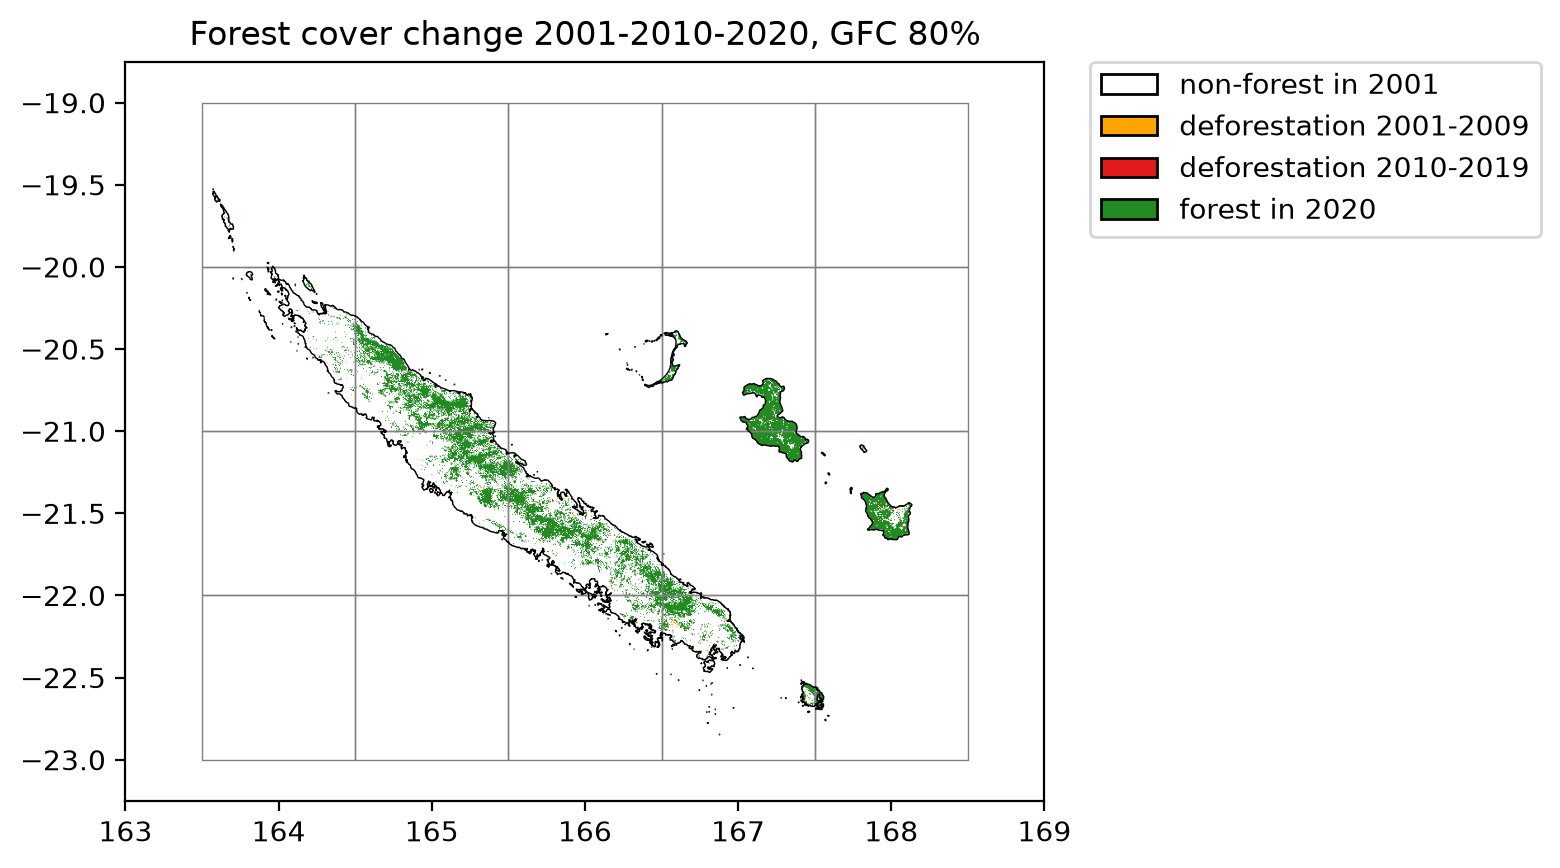
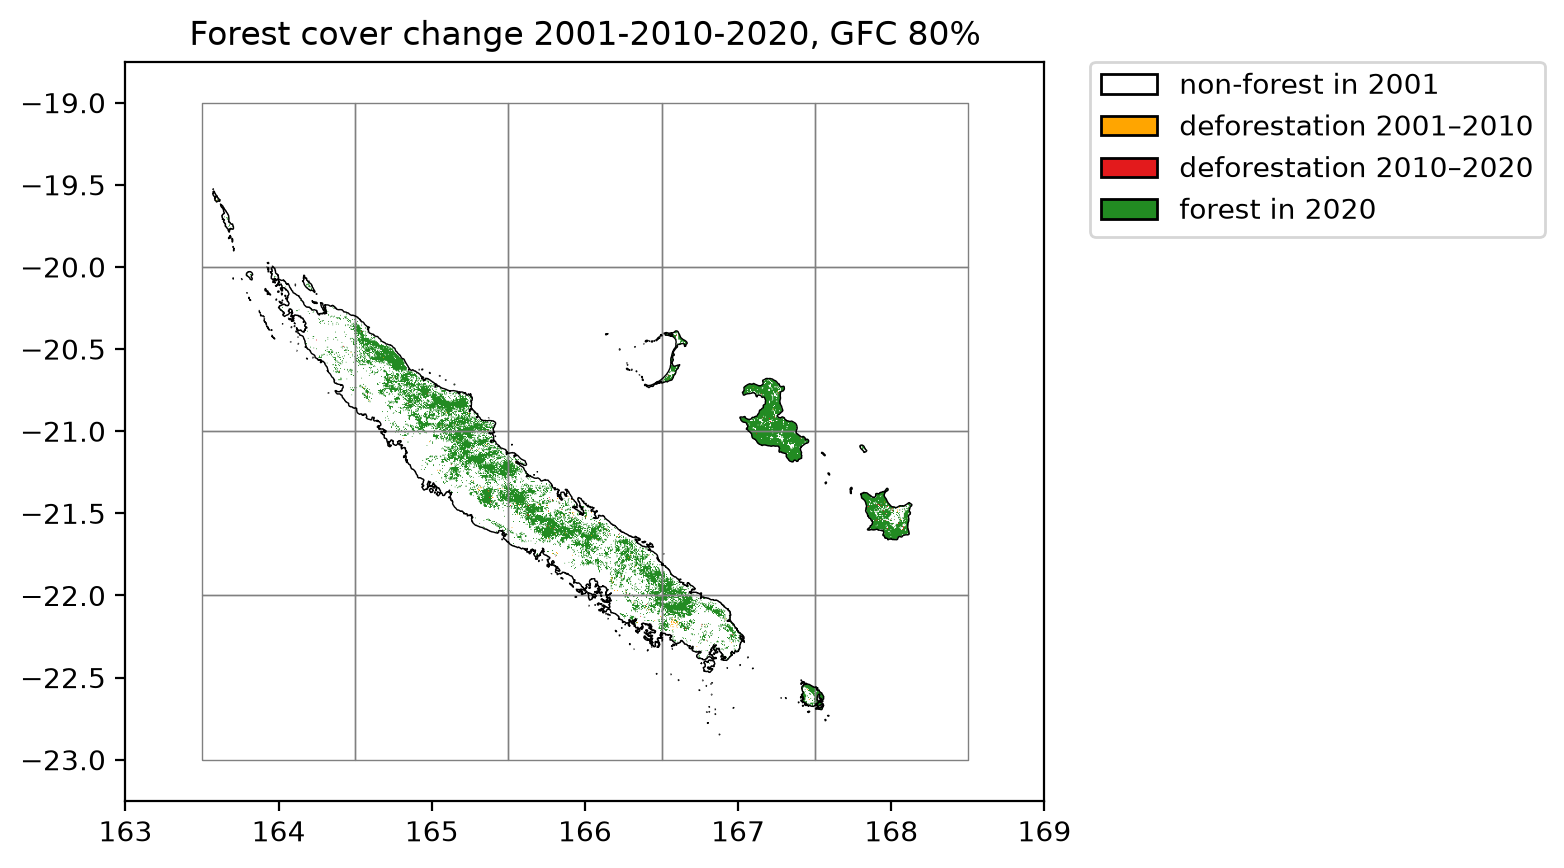
Correcting bug in stat_fcc_loss and updating notebooks

diff --git a/geefcc/stat/stat_fcc_loss.py b/geefcc/stat/stat_fcc_loss.py
@@ -63,11 +63,11 @@ def stat_fcc_loss(
 
     # Build labels from years
     n_periods = len(years) - 1
-    n_classes = n_periods + 1
+    n_classes = len(years) + 1
     labels = {0: f"non-forest in {years[0]}"}
     for i in range(n_periods):
         labels[i + 1] = f"deforestation {years[i]}-{years[i + 1]}"
-    labels[n_periods] = f"forest in {years[-1]}"
+    labels[n_periods + 1] = f"forest in {years[-1]}"
 
     # Reproject to metric CRS at 30 m resolution
     proj_file = input_file.with_stem(input_file.stem + f"_epsg{epsg}")

diff --git a/docsrc/notebooks/newcal/newcal.rst b/docsrc/notebooks/newcal/newcal.rst
@@ -69,11 +69,6 @@ We download the forest cover change data from GEE for New Caledonia for years 20
         )
     end_time = time.time()
 
-::
-
-    get_fcc running, 20 tiles .....................
-
-
 We estimate the computation time to download 20 1-degree tiles using several cores.
 
 .. code:: python
@@ -133,8 +128,8 @@ Reproject in EPSG:3163 for area computation
     res_df_tmf = geefcc.stat_fcc_loss(
         input_file=fcc_file_tmf,
         years=years_tmf,
-        epsg=3163,
-        output_file="fcc_statistics_tmf.csv",
+        epsg=32758,
+        output_file="fcc_statistics_tmf.csv"
     )
     tabulate(res_df_tmf, headers=res_df_tmf.columns, tablefmt="orgtbl", showindex=False)
 
@@ -143,13 +138,13 @@ Reproject in EPSG:3163 for area computation
     +----------+-------------------------+-----------+----------+
     | category | label                   |     count | area\_ha |
     +==========+=========================+===========+==========+
-    |        0 | non-forest in 2001      | 200532616 |   893779 |
+    |        0 | non-forest in 2001      | 197249917 | 17752493 |
     +----------+-------------------------+-----------+----------+
-    |        1 | deforestation 2001-2010 |    291545 |     2915 |
+    |        1 | deforestation 2001-2010 |    292122 |    26291 |
     +----------+-------------------------+-----------+----------+
-    |        2 | deforestation 2010-2020 |    258015 |     2322 |
+    |        2 | deforestation 2010-2020 |    257516 |    23176 |
     +----------+-------------------------+-----------+----------+
-    |        3 | forest in 2020          |   9381325 |   844319 |
+    |        3 | forest in 2020          |   9379101 |   844119 |
     +----------+-------------------------+-----------+----------+
 
 Using GFC product and tree cover >= 80%
@@ -237,7 +232,7 @@ Compute statistics
     res_df_gfc80 = geefcc.stat_fcc_loss(
         input_file=fcc_file_gfc80,
         years=years_gfc,
-        epsg=3163,
+        epsg=32758,
         output_file="fcc_statistics_gfc80.csv",
     )
     tabulate(res_df_gfc80, headers=res_df_gfc80.columns, tablefmt="orgtbl", showindex=False)
@@ -247,13 +242,13 @@ Compute statistics
     +----------+-------------------------+-----------+----------+
     | category | label                   |     count | area\_ha |
     +==========+=========================+===========+==========+
-    |        0 | non-forest in 2001      | 200532616 |   661023 |
+    |        0 | non-forest in 2001      | 199835640 | 17985208 |
     +----------+-------------------------+-----------+----------+
-    |        1 | deforestation 2001-2010 |     41624 |      416 |
+    |        1 | deforestation 2001-2010 |     41700 |     3753 |
     +----------+-------------------------+-----------+----------+
-    |        2 | deforestation 2010-2020 |     27874 |      251 |
+    |        2 | deforestation 2010-2020 |     27890 |     2510 |
     +----------+-------------------------+-----------+----------+
-    |        3 | forest in 2020          |   7275205 |   654768 |
+    |        3 | forest in 2020          |   7273426 |   654608 |
     +----------+-------------------------+-----------+----------+
 
 Using GFC product and tree cover >= 60%
@@ -340,7 +335,7 @@ Compute statistics
     res_df_gfc60 = geefcc.stat_fcc_loss(
         input_file=fcc_file_gfc60,
         years=years_gfc,
-        epsg=3163,
+        epsg=32758,
         output_file="fcc_statistics_gfc60.csv",
     )
     tabulate(res_df_gfc60, headers=res_df_gfc60.columns, tablefmt="orgtbl", showindex=False)
@@ -350,13 +345,13 @@ Compute statistics
     +----------+-------------------------+-----------+----------+
     | category | label                   |     count | area\_ha |
     +==========+=========================+===========+==========+
-    |        0 | non-forest in 2001      | 200532616 |   899493 |
+    |        0 | non-forest in 2001      | 197186817 | 17746814 |
     +----------+-------------------------+-----------+----------+
-    |        1 | deforestation 2001-2010 |     73854 |      739 |
+    |        1 | deforestation 2001-2010 |     74006 |     6661 |
     +----------+-------------------------+-----------+----------+
-    |        2 | deforestation 2010-2020 |     60386 |      544 |
+    |        2 | deforestation 2010-2020 |     60484 |     5444 |
     +----------+-------------------------+-----------+----------+
-    |        3 | forest in 2020          |   9860124 |   887411 |
+    |        3 | forest in 2020          |   9857349 |   887161 |
     +----------+-------------------------+-----------+----------+
 
 Summary of the results
@@ -389,11 +384,11 @@ Summary of the results
     +---+---------+--------------+------+--------+--------+--------+------+------+
     | \ | product | version      | perc | fc2001 | fc2010 | fc2020 |   d1 |   d2 |
     +===+=========+==============+======+========+========+========+======+======+
-    | 0 | tmf     | v1\_2025     | \    | 893779 | 867540 | 844319 | 2915 | 2322 |
+    | 0 | tmf     | v1\_2025     | \    | 893586 | 867295 | 844119 | 2921 | 2318 |
     +---+---------+--------------+------+--------+--------+--------+------+------+
-    | 1 | gfc     | v1\_13(2025) |   80 | 661023 | 657277 | 654768 |  416 |  251 |
+    | 1 | gfc     | v1\_13(2025) |   80 | 660871 | 657118 | 654608 |  417 |  251 |
     +---+---------+--------------+------+--------+--------+--------+------+------+
-    | 2 | gfc     | v1\_13(2025) |   60 | 899493 | 892846 | 887411 |  739 |  544 |
+    | 2 | gfc     | v1\_13(2025) |   60 | 899266 | 892605 | 887161 |  740 |  544 |
     +---+---------+--------------+------+--------+--------+--------+------+------+
 
-Forest cover for TMF and GFC with tree cover >= 60% are similar in 2020 (about 850,000 ha) but the annual deforestation is 4-5 times lower when using the GFC product (e.g. 544 ha/yr for GFC in the period 2010--2020 against 2322 ha/yr for TMF for the same period).
+Forest cover for TMF and GFC with tree cover >= 60% are similar in 2020 (mean at about 865,000 ha) but the annual deforestation is 4-5 times lower when using the GFC product (e.g. 544 ha/yr for GFC in the period 2010--2020 against 2322 ha/yr for TMF for the same period).
